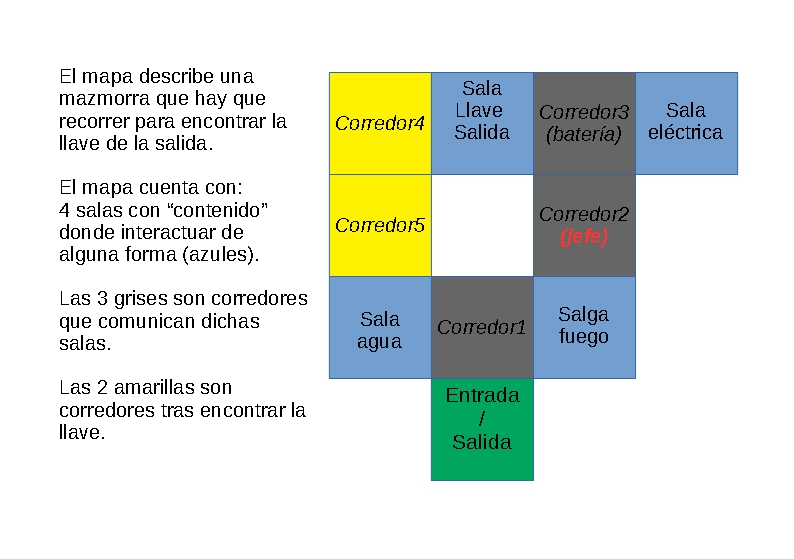
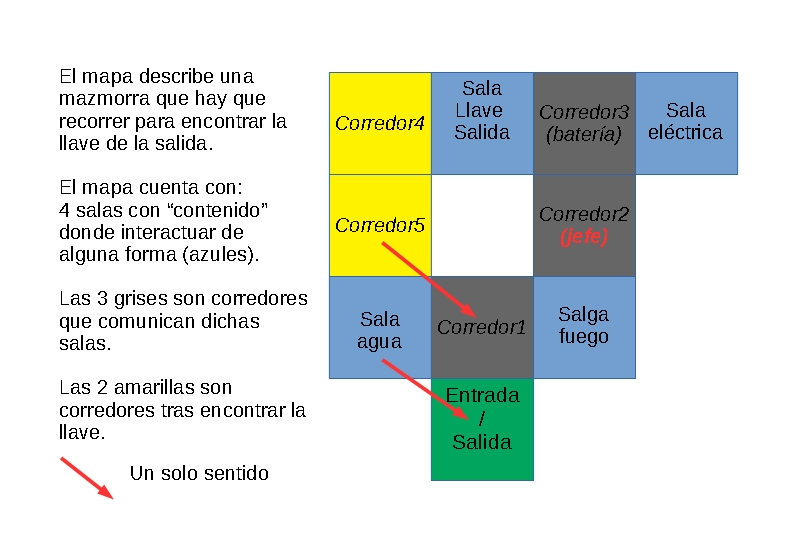
04. Agregada una nueva direccion (south-east) de un solo sentido en las salas corredor1 y Sala de agua.

diff --git a/Room.java b/Room.java
@@ -19,6 +19,7 @@ public class Room
     public Room southExit;
     public Room eastExit;
     public Room westExit;
+    public Room southEastExit;
 
     /**
      * Create a room described "description". Initially, it has
@@ -36,19 +37,23 @@ public class Room
      * to another room or is null (no exit there).
      * @param north The north exit.
      * @param east The east east.
+     * @param southEast The south-east exit.
      * @param south The south exit.
      * @param west The west exit.
      */
-    public void setExits(Room north, Room east, Room south, Room west) 
+    public void setExits(Room north, Room east, Room southEast, Room south, Room west) 
     {
         if(north != null)
             northExit = north;
         if(east != null)
             eastExit = east;
+        if (southEast != null)
+            southEastExit = southEast;
         if(south != null)
             southExit = south;
         if(west != null)
             westExit = west;
+
     }
 
     /**
